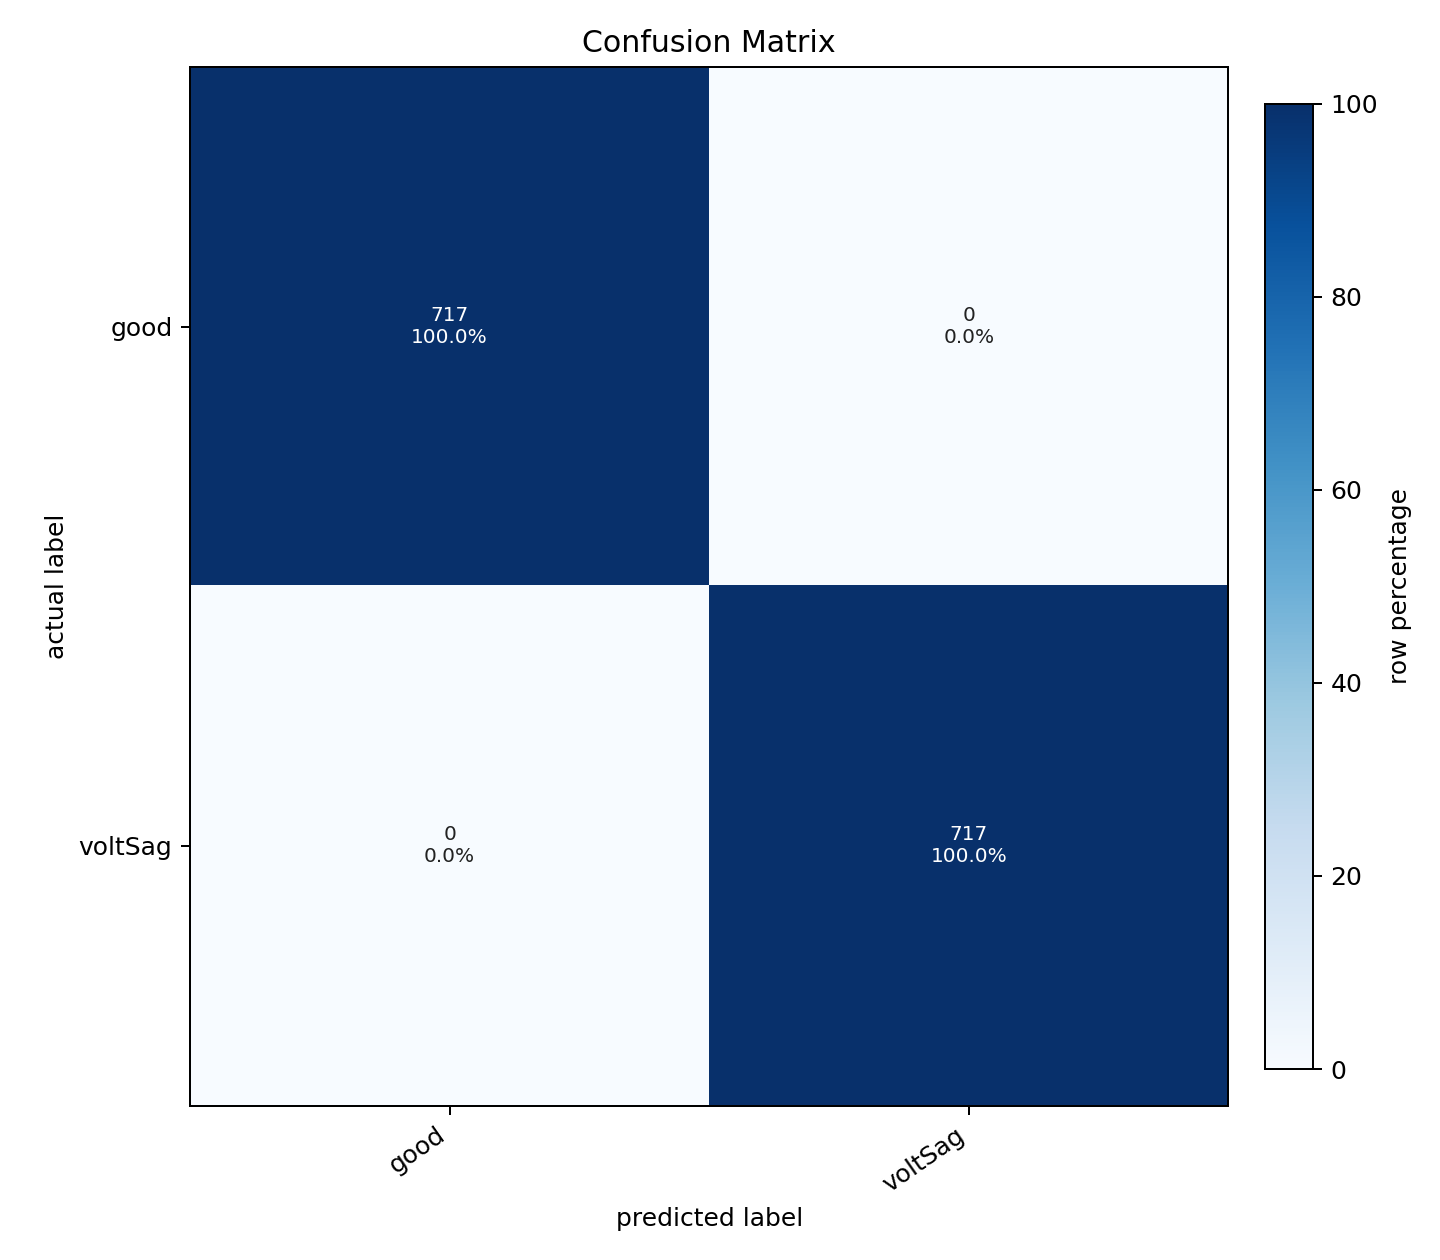
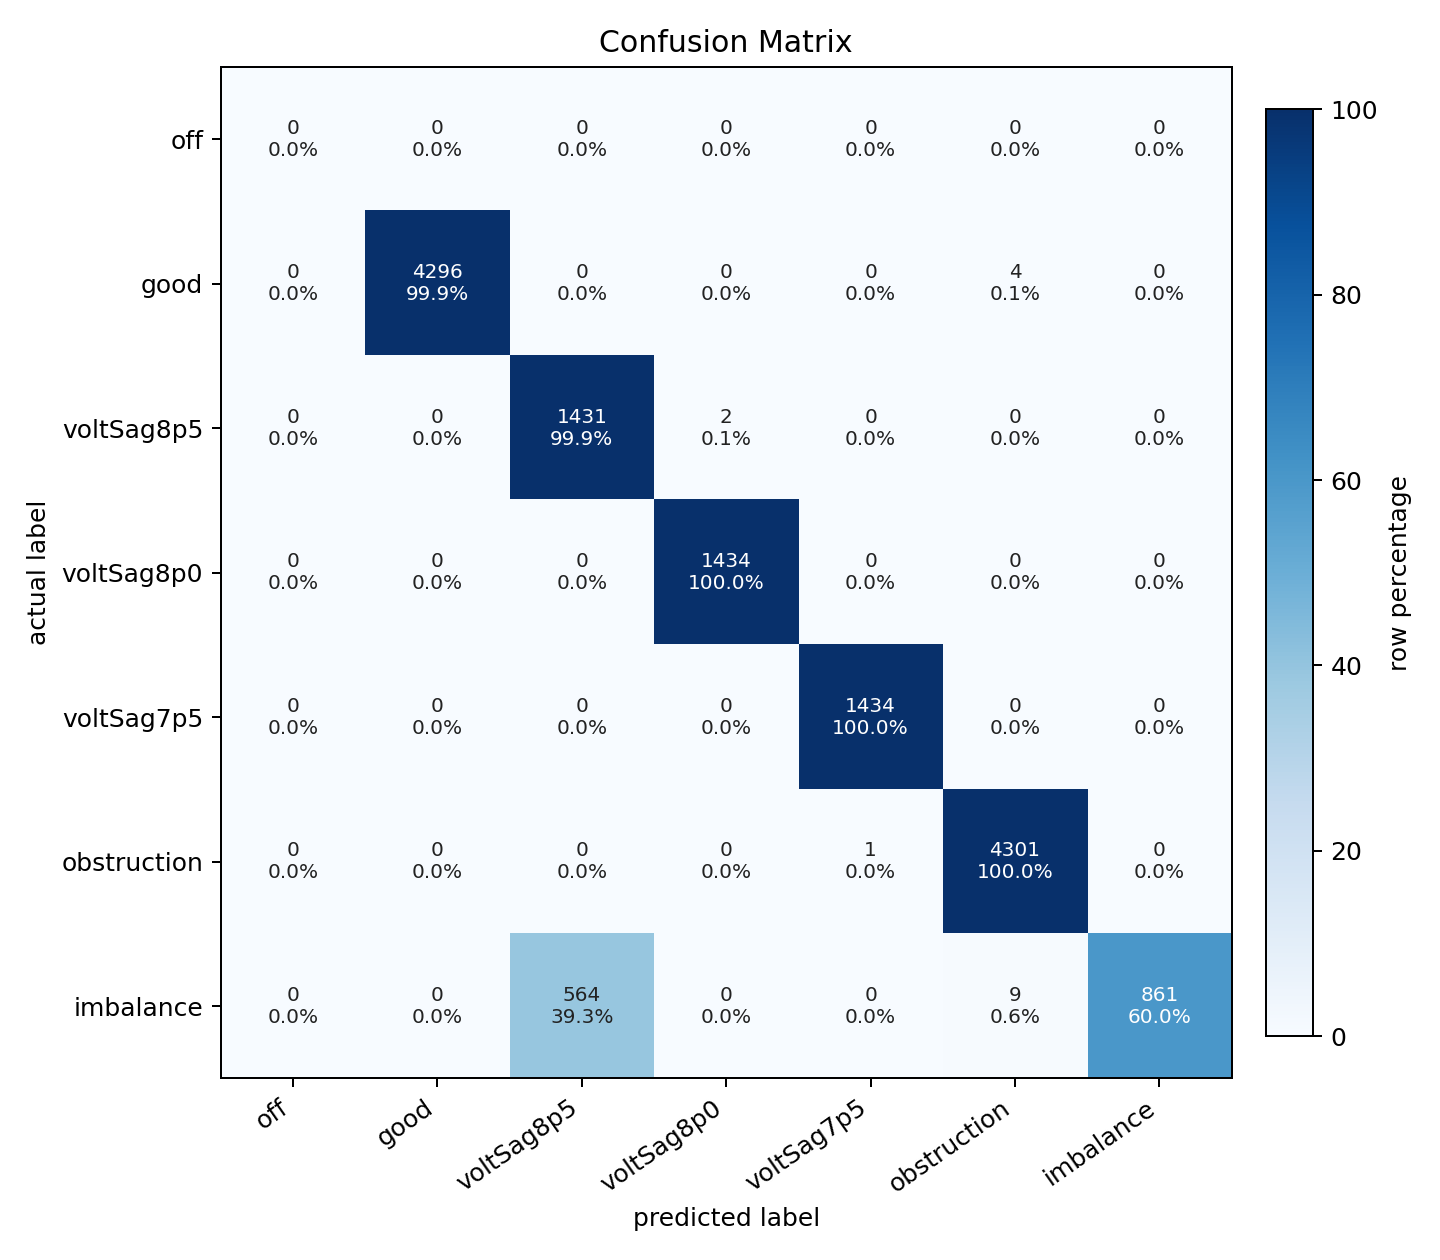
pre comparisons, expanded data set working

diff --git a/Build_FanTest_v2/src/train.py b/Build_FanTest_v2/src/train.py
@@ -2,7 +2,10 @@
 # Imports                                                                      #
 ################################################################################
 from pathlib import Path
+import math
 import os
+import random
+import re
 
 buildDir = Path(__file__).resolve().parents[1]
 mplConfigDir = buildDir / "outputs" / ".matplotlib"
@@ -27,23 +30,168 @@ import signals
 trainDir = buildDir / "data" / "training" / "main"
 modelPath = buildDir / "outputs" / "models" / "fanClassifier.joblib"
 chartDir = buildDir / "outputs" / "ML-charts"
-labels = ["good", "voltSag", "obstruction"]
+labelGroups = [
+    ("off", "off", None),
+    ("good", "good", "withVoltage"),
+    ("voltSag8p5", "voltSag", 8.5),
+    ("voltSag8p0", "voltSag", 8.0),
+    ("voltSag7p5", "voltSag", 7.5),
+    ("obstruction", "obstruction", "withoutLight"),
+    ("imbalance", "imbalance", None),
+]
+holdoutGroups = [
+    ("good", "good"),
+    ("off", "off"),
+    ("voltSag", "voltSag"),
+]
 sampleRate = 1000.0
 winSecs = 1.0
 stepSecs = 0.25
-valFileCount = 1
+trainFraction = 0.25
+splitSeed = 42
+voltageTolerance = 0.15
+baseVoltages = {
+    "voltSag8p5": 8.5,
+    "voltSag8p0": 8.0,
+    "voltSag7p5": 7.5,
+}
 
 ################################################################################
 # helpers                                                                      #
 ################################################################################
 
 
-# Finds the CSV recordings for one fixed class label.
-def labelCsvs(label):
-    classDir = trainDir / label
+# Finds the CSV recordings for one fixed source folder.
+def sourceCsvs(sourceLabel):
+    classDir = trainDir / sourceLabel
     if classDir.exists():
-        return sorted(classDir.glob("*.csv"))
-    return sorted(trainDir.glob(f"{label}*.csv"))
+        csvPaths = sorted(classDir.glob("*.csv"))
+    else:
+        csvPaths = sorted(trainDir.glob(f"{sourceLabel}*.csv"))
+
+    goodPaths = []
+    for csvPath in csvPaths:
+        if hasEnoughRows(csvPath):
+            goodPaths.append(csvPath)
+        else:
+            print("skipping short CSV:", csvPath)
+    return goodPaths
+
+
+# Finds the CSV recordings for one model class.
+def groupCsvs(sourceLabel, targetVoltage):
+    csvPaths = sourceCsvs(sourceLabel)
+    if targetVoltage == "withoutLight":
+        return [
+            csvPath
+            for csvPath in csvPaths
+            if not isLightObstruction(csvPath)
+        ]
+    if targetVoltage == "off":
+        return [csvPath for csvPath in csvPaths if "off" in csvPath.stem.lower()]
+    if targetVoltage == "withVoltage":
+        return [
+            csvPath
+            for csvPath in csvPaths
+            if filenameVoltage(csvPath) is not None
+            and "off" not in csvPath.stem.lower()
+        ]
+    if targetVoltage is None:
+        return csvPaths
+
+    paths = []
+    for csvPath in csvPaths:
+        voltage = filenameVoltage(csvPath)
+        if voltage is None:
+            print("skipping voltage-class CSV without voltage:", csvPath)
+            continue
+        if abs(voltage - targetVoltage) <= voltageTolerance:
+            paths.append(csvPath)
+    return paths
+
+
+# Extracts voltages from names like v8p5, v8.5, v10p0, or v10.0.
+def filenameVoltage(csvPath):
+    match = re.search(r"(?:^|_)v(\d+(?:p\d+|\.\d+)?)", csvPath.stem)
+    if match is None:
+        return None
+    return float(match.group(1).replace("p", "."))
+
+
+# Light obstruction files identified by current-model good predictions.
+def isLightObstruction(csvPath):
+    return csvPath.stem in {
+        "r19_obst_1",
+        "r19_obst_2",
+        "r22_obst_4",
+        "r23_obst_5",
+    }
+
+
+# Returns true when the CSV can produce at least one training window.
+def hasEnoughRows(csvPath):
+    minLines = int(sampleRate * winSecs) + 1
+    with csvPath.open("r", newline="") as csvFile:
+        for lineIndex, _ in enumerate(csvFile, start=1):
+            if lineIndex >= minLines:
+                return True
+    return False
+
+
+# Splits files for one class into deterministic train and validation sets.
+def splitCsvs(csvPaths):
+    paths = list(csvPaths)
+    random.Random(splitSeed).shuffle(paths)
+    if len(paths) == 1:
+        return paths, []
+    trainFileCount = max(1, math.ceil(len(paths) * trainFraction))
+    trainFileCount = min(trainFileCount, len(paths) - 1)
+    return paths[:trainFileCount], paths[trainFileCount:]
+
+
+# Returns the trailing obstruction index from names like r30_obst_13.
+def obstructionIndex(csvPath):
+    match = re.search(r"_obst_(\d+)$", csvPath.stem)
+    if match is None:
+        return -1
+    return int(match.group(1))
+
+
+# Applies the current source-separated training plan.
+def plannedCsvSplit(label, csvPaths):
+    paths = sorted(csvPaths)
+    if label == "good":
+        trainPaths = [path for path in paths if "_warm" in path.stem]
+        valPaths = [path for path in paths if path not in trainPaths]
+        return trainPaths, valPaths
+
+    if label in baseVoltages:
+        baseVoltage = baseVoltages[label]
+        trainPaths = [
+            path
+            for path in paths
+            if filenameVoltage(path) is not None
+            and abs(filenameVoltage(path) - baseVoltage) < 0.01
+        ]
+        valPaths = [path for path in paths if path not in trainPaths]
+        return trainPaths, valPaths
+
+    if label == "obstruction":
+        trainNames = {
+            "r25_obst_7",
+            "r26_obst_8",
+            "r28_obst_11",
+        }
+        trainPaths = [path for path in paths if path.stem in trainNames]
+        valPaths = [path for path in paths if path not in trainPaths]
+        return trainPaths, valPaths
+
+    if label == "imbalance":
+        trainPaths = [path for path in paths if "_2band" in path.stem]
+        valPaths = [path for path in paths if path not in trainPaths]
+        return trainPaths, valPaths
+
+    return splitCsvs(paths)
 
 
 # Converts CSV recordings into labelled feature rows.
@@ -63,8 +211,105 @@ def addCsvFeatures(csvPaths, classIndex, featureRows, classRows):
             classRows.append(classIndex)
 
 
+# Converts CSV recordings into feature rows without assigning class labels.
+def csvFeatures(csvPaths):
+    featureRows = []
+    sourceRows = []
+    for csvPath in csvPaths:
+        df = data.readCsv(csvPath)
+        df = data.cleanFrame(df)
+        windows = data.windowFrames(df, sampleRate, winSecs, stepSecs)
+        for windowFrame in windows:
+            timeData = signals.timeSignals(windowFrame, sampleRate)
+            freqData = signals.fftSignals(
+                timeData,
+                sampleRate,
+                signals.fftConfig,
+            )
+            featureRows.append(signals.modelInput(timeData, freqData))
+            sourceRows.append(csvPath)
+    if len(featureRows) == 0:
+        return None, []
+    return np.vstack(featureRows).astype(np.float32), sourceRows
+
+
+# Splits already-extracted feature rows into deterministic train/validation sets.
+def splitFeatureMatrix(featureMatrix):
+    rowIndexes = list(range(featureMatrix.shape[0]))
+    random.Random(splitSeed).shuffle(rowIndexes)
+    if len(rowIndexes) == 1:
+        return featureMatrix, None
+
+    trainRowCount = max(1, math.ceil(len(rowIndexes) * trainFraction))
+    trainRowCount = min(trainRowCount, len(rowIndexes) - 1)
+    trainIndexes = rowIndexes[:trainRowCount]
+    valIndexes = rowIndexes[trainRowCount:]
+    return featureMatrix[trainIndexes], featureMatrix[valIndexes]
+
+
+# Adds already-extracted feature rows to one labelled output set.
+def addFeatureMatrix(featureMatrix, classIndex, featureRows, classRows):
+    for row in featureMatrix:
+        featureRows.append(row)
+        classRows.append(classIndex)
+
+
+# Finds original voltage-less files reserved from train/validation.
+def holdoutCsvs(sourceLabel):
+    csvPaths = [
+        csvPath
+        for csvPath in sourceCsvs(sourceLabel)
+        if filenameVoltage(csvPath) is None
+    ]
+    return csvPaths
+
+
+# Filters holdout files by the class expected from filenames.
+def expectedHoldoutCsvs(expectedLabel, sourceLabel):
+    csvPaths = holdoutCsvs(sourceLabel)
+    if expectedLabel == "off":
+        return [csvPath for csvPath in csvPaths if "off" in csvPath.stem.lower()]
+    if expectedLabel == "good":
+        return [csvPath for csvPath in csvPaths if "off" not in csvPath.stem.lower()]
+    return csvPaths
+
+
+# Prints holdout predictions using exact labels where possible.
+def printHoldoutReport(model, labels):
+    print("holdoutReport:")
+    for expectedLabel, sourceLabel in holdoutGroups:
+        csvPaths = expectedHoldoutCsvs(expectedLabel, sourceLabel)
+        if len(csvPaths) == 0:
+            print(f"{expectedLabel}: no holdout files")
+            continue
+
+        featureMatrix, sourceRows = csvFeatures(csvPaths)
+        if featureMatrix is None:
+            print(f"{expectedLabel}: no holdout windows")
+            continue
+
+        predIndexes = model.predict(featureMatrix)
+        predLabels = np.array([labels[index] for index in predIndexes])
+        if expectedLabel == "voltSag":
+            correct = np.char.startswith(predLabels.astype(str), "voltSag")
+        else:
+            correct = predLabels == expectedLabel
+        print(
+            f"{expectedLabel}: {correct.sum()}/{correct.size} "
+            f"windows correct ({correct.mean() * 100.0:.2f}%)")
+
+        for csvPath in csvPaths:
+            fileMask = np.array([path == csvPath for path in sourceRows])
+            filePreds = predLabels[fileMask]
+            fileLabels, counts = np.unique(filePreds, return_counts=True)
+            summary = ", ".join(
+                f"{label}:{count}" for label, count in zip(fileLabels, counts)
+            )
+            print(f"  {csvPath.name}: {summary}")
+
+
 # Saves the validation confusion matrix as a PNG chart.
-def saveConfusionPlot(matrix):
+def saveConfusionPlot(matrix, labels):
     rowTotals = matrix.sum(axis=1, keepdims=True)
     percent = np.divide(
         matrix,
@@ -118,19 +363,29 @@ def main():
     classRows = []
     valFeatureRows = []
     valClassRows = []
+    labelFiles = {}
 
 
     # BUILD TRAINING AND VALIDATION FEATURE SETS
-    for label in labels:
-        csvPaths = labelCsvs(label)
-        if len(csvPaths) < valFileCount + 1:
-            raise SystemExit(
-                f"need at least {valFileCount + 1} CSV files for label: {label}")
+    for label, sourceLabel, targetVoltage in labelGroups:
+        csvPaths = groupCsvs(sourceLabel, targetVoltage)
+        if len(csvPaths) >= 1:
+            labelFiles[label] = csvPaths
+
+    labels = list(labelFiles.keys())
+    if len(labels) < 2:
+        raise SystemExit("need at least two labels with two or more CSV files each")
+
+    print("active labels:", labels)
 
     for classIndex, label in enumerate(labels):
-        csvPaths = labelCsvs(label)
-        trainCsvs = csvPaths[:-valFileCount]
-        valCsvs = csvPaths[-valFileCount:]
+        trainCsvs, valCsvs = plannedCsvSplit(label, labelFiles[label])
+        print(
+            f"{label}: {len(trainCsvs)} train files, "
+            f"{len(valCsvs)} validation files")
+        print("  train:", ", ".join(path.name for path in trainCsvs))
+        if len(valCsvs) > 0:
+            print("  val:", ", ".join(path.name for path in valCsvs))
 
         addCsvFeatures(trainCsvs, classIndex, featureRows, classRows)
         addCsvFeatures(valCsvs, classIndex, valFeatureRows, valClassRows)
@@ -199,7 +454,7 @@ def main():
 
 
         chartDir.mkdir(parents=True, exist_ok=True)
-        plotPath = saveConfusionPlot(valMatrix)
+        plotPath = saveConfusionPlot(valMatrix, labels)
         print("confusionPlot:", plotPath)
     else:
         print("valShape: none")
@@ -220,6 +475,7 @@ def main():
     modelPath.parent.mkdir(parents=True, exist_ok=True)
     joblib.dump(bundle, modelPath)
     print("modelPath:", modelPath)
+    printHoldoutReport(model, labels)
 
 
 if __name__ == "__main__":

diff --git a/Build_FanTest_v2/src/live.py b/Build_FanTest_v2/src/live.py
@@ -41,7 +41,7 @@ bufferSize = recordSize * bufferSampleCount
 plotSecs = 2.0
 visualRefreshSecs = 0.1
 plotEventSecs = 0.25
-inferRefreshSecs = 0.5
+inferRefreshSecs = 0.25
 probSmoothSecs = 5.0
 probHistorySecs = 60.0
 plotMaxHz = 500.0
@@ -62,6 +62,10 @@ classColors = [
     "#f4a261",
     "#8e5ea2",
     "#6c757d",
+    "#e76f51",
+    "#00a896",
+    "#f72585",
+    "#90be6d",
 ]
 
 ################################################################################
@@ -294,7 +298,7 @@ def buildProbFig(ax, labels):
         line, = ax.plot(
             [],
             [],
-            color=classColors[index],
+            color=classColors[index % len(classColors)],
             linewidth=1.2,
             label=label,
         )

diff --git a/Build_FanTest_v2/src/capture.py b/Build_FanTest_v2/src/capture.py
@@ -45,7 +45,7 @@ csvColumns = [
     "gz2",
     "tempC",
 ]
-validLabels = ["good", "voltSag", "obstruction"]
+validLabels = ["good", "voltSag", "obstruction", "imbalance"]
 
 ################################################################################
 # helpers                                                                      #